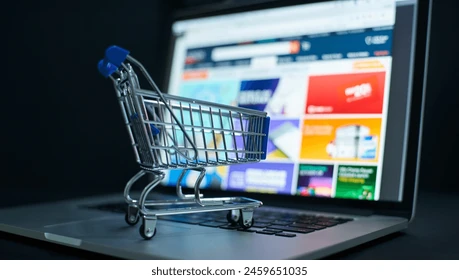
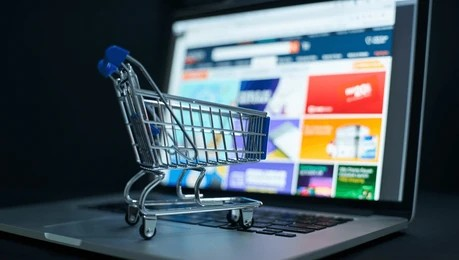
project link changed

diff --git a/index.html b/index.html
@@ -208,7 +208,7 @@
           <div class="project-overlay">
             <h4>E-Commerce Website</h4>
             <p>React based shopping app with cart & orders</p>
-            <a href="https://github.com/Muruganmari78/Wishcart" target="_blank">View Code</a>
+            <a href="https://muruganmari78.github.io/Wishcart-Website/" target="_blank">View Code</a>
           </div>
         </div>
       </div>
